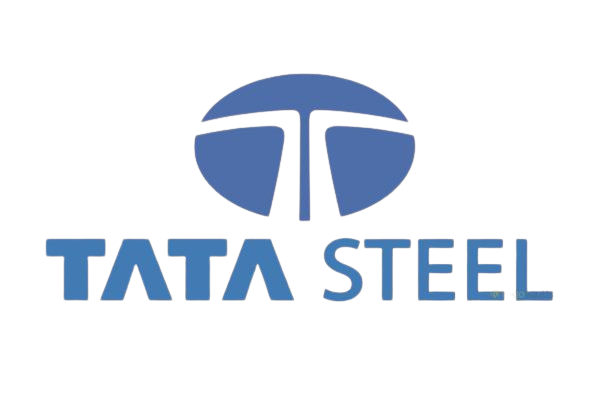
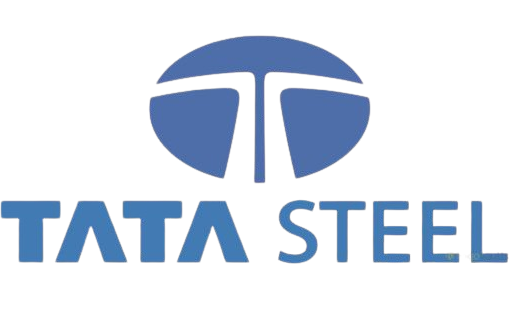
update

Changed region(s): [[0.2802, 0.1139, 0.9961, 0.8544], [0.0, 0.5696, 0.4981, 0.8544]]

diff --git a/index.html b/index.html
@@ -316,7 +316,7 @@
                 </div>
 
                 <div class="mt-4">
-                    <img src="img/tata1.jpg" alt="TATA Logo" style="height: 250px;">
+                    <img src="img/tata2.png" alt="TATA Logo" style="height: 250px;">
                 </div>
             </div>
         </div>
